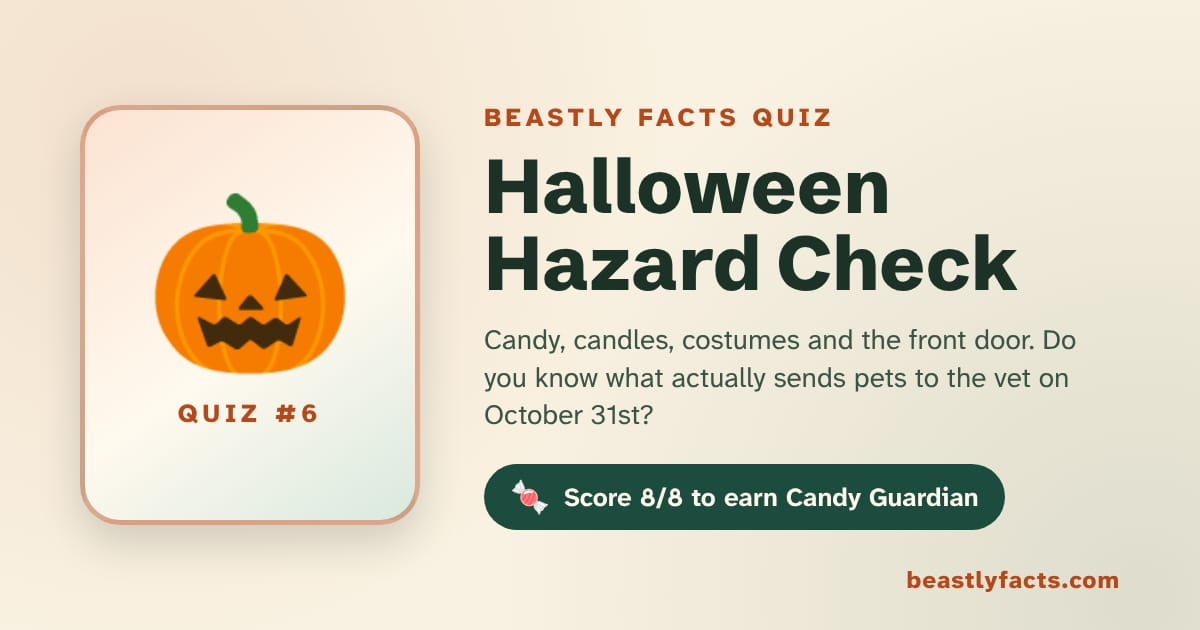
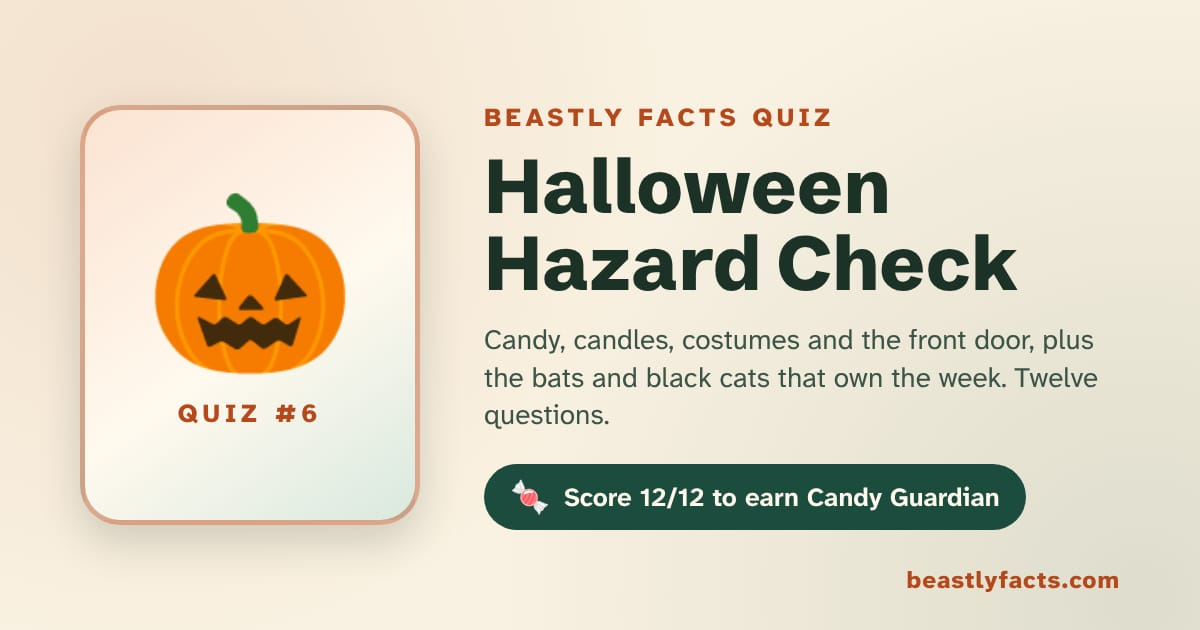
Quiz #6: four Bat Week and Black Cat Day questions, twelve in all
Bat eyes with ultraviolet cones, fruit bats calling in daylight, the black
cat as a tabby with the pattern switched off, and the age split on the
unlucky superstition. Share card re-rendered for 12/12. QUIZZES.md notes
the new cap: eight is the norm, up to twelve when a week carries more than
one theme.

Claude-Session: https://claude.ai/code/session_017NYkqQ79jJzegL1zEKRZpN

Changed region(s): [[0.4008, 0.5127, 0.925, 0.6937], [0.5242, 0.7238, 0.8633, 0.8444]]

diff --git a/src/lib/data/quizzes/halloween-hazard-check.js b/src/lib/data/quizzes/halloween-hazard-check.js
@@ -1,18 +1,21 @@
-// Themed quiz #6. Format documented in docs/QUIZZES.md. Every question is
-// answerable from the Halloween pet safety guide and links to it. Ids are
-// permanent, never reuse or renumber. Shipped off the Monday cadence on
-// purpose: Halloween 2026 is a Saturday and the guide went out the same day.
+// Themed quiz #6. Format documented in docs/QUIZZES.md. Eight questions come
+// from the Halloween pet safety guide, four from the Bat Week and National
+// Black Cat Day articles that share the week. Ids are permanent, never reuse
+// or renumber. Shipped off the Monday cadence on purpose: Halloween 2026 is
+// a Saturday and the guide went out the same day. First quiz over eight
+// questions (owner, 2026-10-25): the page and the share card size from
+// questions.length, so nothing else needed changing.
 export default {
   id: 'halloween-hazard-check',
   number: 6,
   date: '2026-10-25',
   title: 'Halloween Hazard Check',
   emoji: '🎃',
-  tagline: 'Candy, candles, costumes and the front door. Do you know what actually sends pets to the vet on October 31st?',
+  tagline: 'Candy, candles, costumes and the front door, plus the bats and black cats that own the week. Twelve questions.',
   reward: {
     emoji: '🍬',
     title: 'Candy Guardian',
-    blurb: 'Your dog may smell the bowl through the cabinet, but it is never getting in.',
+    blurb: 'Your dog may smell the bowl through the cabinet, but it is never getting in. You also know a bat is not blind.',
   },
   questions: [
     {
@@ -30,6 +33,13 @@ export default {
       source: { label: 'Halloween Pet Safety Guide', to: '/blog/halloween-pet-safety-guide/' },
     },
     {
+      q: '"Blind as a bat." What did researchers find when they finally looked inside the eyes of two small nectar-feeding bats in 2009?',
+      options: ['Rod cells only, so the saying is right', 'Cone cells, including a kind tuned to ultraviolet light', 'Eyes with no lens at all', 'A mirror layer like a cat\'s'],
+      answer: 1,
+      explain: 'Both species had cones, rare at about 3 percent of the light-sensing cells, but real, and one kind was tuned to ultraviolet. The likely uses are getting around at twilight, spotting predators and, for nectar feeders, finding flowers that reflect ultraviolet. Bats can see, and some see colors we cannot.',
+      source: { label: 'Bat Week', to: '/blog/bat-week/' },
+    },
+    {
       q: 'A dog ate chocolate at 7 pm and looks completely normal at 9 pm. What does that tell you?',
       options: ['It was not enough to matter', 'Nothing yet, signs usually start 6 to 12 hours after eating', 'The dog vomited it up unnoticed', 'Milk chocolate never causes signs'],
       answer: 1,
@@ -44,11 +54,25 @@ export default {
       source: { label: 'Halloween Pet Safety Guide', to: '/blog/halloween-pet-safety-guide/' },
     },
     {
+      q: 'Genetically, what is a black domestic cat?',
+      options: ['A separate breed with its own gene', 'A tabby with the striped pattern switched off', 'An albino in reverse', 'A cat with extra copies of the pigment gene'],
+      answer: 1,
+      explain: 'The stripes are still in its genes. Two letters of DNA missing from the agouti gene, ASIP, stop each hair from carrying bands of lighter pigment, so the whole coat goes dark. Many black kittens show faint ghost tabby markings that sink into the background as they grow. The trait is recessive, so two tabby parents can produce a black kitten.',
+      source: { label: 'National Black Cat Day', to: '/blog/national-black-cat-day/' },
+    },
+    {
       q: 'The doorbell rang forty times last night and this morning your rabbit has not touched its hay or left droppings since the evening. What is that?',
       options: ['Normal after a late night, give it until tomorrow', 'A sign it needs fresh greens', 'A possible GI stasis emergency once it passes 8 to 12 hours', 'Sulking, rabbits do this when ignored'],
       answer: 2,
       explain: 'A rabbit reads each doorbell as a predator at the burrow mouth, and a frightened rabbit freezes and stops eating. No food and no droppings for 8 to 12 hours is GI stasis territory, an emergency, and stress is one of the things that starts it. The quiet room farthest from the door, with the hay topped up, is how you prevent it.',
       source: { label: 'Halloween Pet Safety Guide', to: '/blog/halloween-pet-safety-guide/' },
+    },
+    {
+      q: 'An Egyptian fruit bat has big eyes and sees well. When does it echolocate?',
+      options: ['Only in full darkness', 'Only inside caves', 'In broad daylight too, calling faster right before it dips to drink', 'Never, fruit bats cannot echolocate'],
+      answer: 2,
+      explain: 'A Tel Aviv University team followed the bats through the city in daylight and they kept calling, more as they came in to land and faster still just before dipping to a pool. Sound seems to measure distance more sharply than sight, so the bat uses both at once rather than choosing.',
+      source: { label: 'Bat Week', to: '/blog/bat-week/' },
     },
     {
       q: 'For years nobody knew why a few raisins kill one dog and leave another fine. What do ASPCA toxicologists now point to?',
@@ -63,6 +87,13 @@ export default {
       answer: 2,
       explain: 'Ferrets can develop low blood sugar and seizures after xylitol products, and they already carry a high rate of insulinoma, a tumor that drives blood sugar down on its own. A ferret loose on the floor during a party is the one to watch around dropped gum and mints.',
       source: { label: 'Halloween Pet Safety Guide', to: '/blog/halloween-pet-safety-guide/' },
+    },
+    {
+      q: 'A 2015 survey asked who still thinks black cats are unlucky. Which age group said yes most often?',
+      options: ['Over 55s, at 12 percent', '18 to 24 year olds, at 12 percent', 'Both groups, about evenly', 'Nobody over 2 percent in any group'],
+      answer: 1,
+      explain: 'Twelve percent of 18 to 24 year olds thought black cats were unlucky, against 2 percent of people over 55. Whatever slows a black cat down in a rehoming pen, it is not confined to older people with older beliefs. The charity that ran the survey, Cats Protection, started National Black Cat Day in 2011 because its black cats waited about a week longer for a home.',
+      source: { label: 'National Black Cat Day', to: '/blog/national-black-cat-day/' },
     },
     {
       q: 'You find the empty candy bag and the dog looks fine. What is the right first move?',

diff --git a/docs/QUIZZES.md b/docs/QUIZZES.md
@@ -39,7 +39,7 @@ export default {
   emoji: '🦎',
   tagline: 'One hooky sentence, no URL.',
   reward: { emoji: '🏆', title: 'Two Words', blurb: 'One playful sentence.' },
-  questions: [ /* exactly 8 */
+  questions: [ /* 8 is the norm; up to 12 when a week carries more than one theme (owner, 2026-10-25) */
     {
       q: 'The question?',
       options: ['A', 'B', 'C', 'D'],  // exactly 4, one clearly correct
